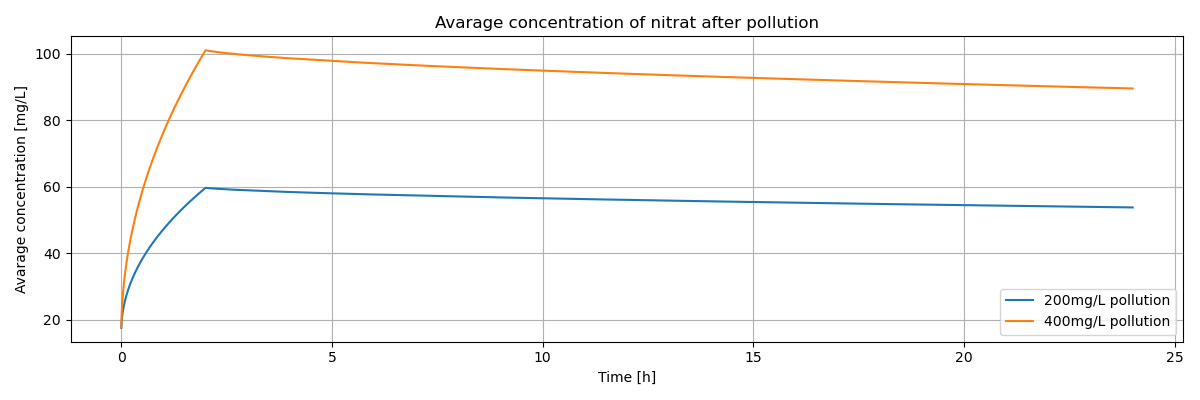
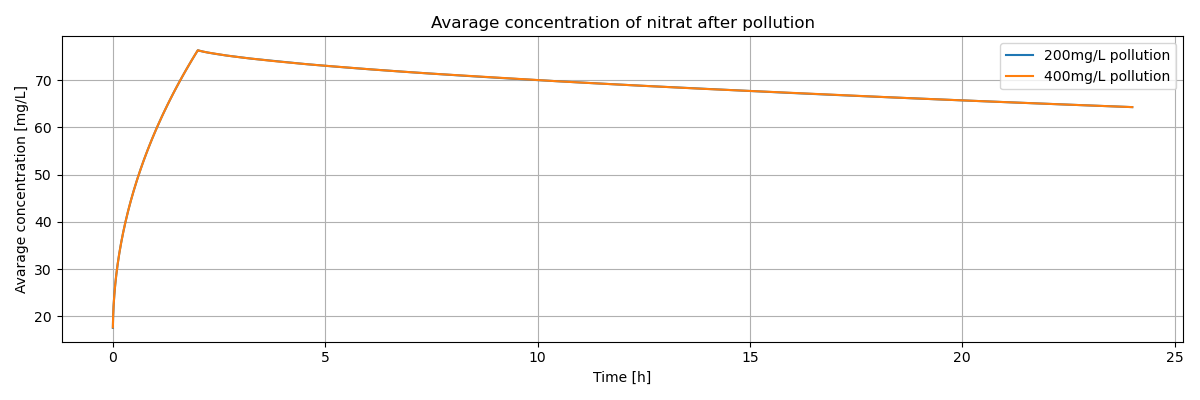
pipeline

diff --git a/src/simulation.py b/src/simulation.py
@@ -18,45 +18,45 @@ def pipeline(domain_width: int,
              domain_height: int,
              mean_noise: float,
              std_noise: float,
-             mean_pollution: list,
-             std_pollution: list,
-             number_of_cases: int,
+             mean_pollution: list[float],
+             std_pollution: list[float],
              number_of_charts: int,
              duration_sim: int,
              duration_poll: int,
              dx: int,
              dy: int,
              dt: int,
-             D: float,
-             v: float,
-             k:float):
+             D: list[float],
+             v: list[float],
+             k: list[float]):
+    
+    if len(mean_pollution) != len(std_pollution):
+        raise ValueError("mean_pollution and std_pollution must have the same length")
     
     bodies = []
-    averages = []
-    variances = []
+    averages = [[] for _ in range(len(mean_pollution))]
+    variances = [[] for _ in range(len(mean_pollution))]
+    labels = [f"{mean_pollution[i]} mg/L pollution" for i in range(len(mean_pollution))]
     end_of_pollution = False
 
 
-    for i in range(number_of_cases):
+    for i in range(len(mean_pollution)):
         body = setup(domain_width, domain_height, mean_noise, std_noise)
-        bodies.append(body)
         pollution_std_line(body, mean_pollution[i], std_pollution[i])
         bodies.append(body)
 
     for t in range(duration_sim):
-        for  i in range(number_of_cases):
-            flow(bodies[i], dx, dy, dt, D, v, k, mean_noise, std_noise, end_of_pollution)
+        for  i in range(len(mean_pollution)):
+            flow(bodies[i], dx, dy, dt, D[i], v[i], k[i], mean_noise, std_noise, end_of_pollution)
             averages[i].append(average(bodies[i]))
             variances[i].append(variance(bodies[i]))
 
 
             if(t%(duration_sim/number_of_charts) == 0):
-                visualise_concentration(bodies[i], 0, mean_pollution)
+                visualise_concentration(bodies[i], 0, np.max(mean_pollution))
 
         if t == duration_poll:
            end_of_pollution = True
     
-    plot_avg(np.arange(len(averages[0])) / 3600, averages, ["200mg/L pollution", "400mg/L pollution"],
-                  "Avarage concentration of nitrat after pollution", "h")
-    plot_var(np.arange(len(variances[0])) / 3600, variances, ["200mg/L pollution", "400mg/L pollution"],
-                  "Variance of nitrat concentration after pollution", "h")
+    plot_avg(np.arange(len(averages[0])) / 3600, averages, labels, "Average concentration of nitrate after pollution", "h")
+    plot_var(np.arange(len(variances[0])) / 3600, variances, labels, "Variance of nitrat concentration after pollution", "h")

diff --git a/main.py b/main.py
@@ -1,38 +1,4 @@
-import numpy as np
-import matplotlib.pyplot as plt
-from src.flow import setup, pollution, flow
-from src.visualise import visualise_concentration, plot_avg, plot_var
-from src.analyse import average, variance
+from src.simulation import pipeline
 
 if __name__ == '__main__':
-    body = setup(500, 100, 17.5, 2.5)
-    body_2 = setup(500, 100, 17.5, 2.5)
-    pollution(body, 200, 50)
-    pollution(body_2, 400, 50)
-    averages = []
-    averages_2 = []
-    variances = []
-    variances_2 = []
-    end_of_pollution = False
-    duration = 3600*12*2
-    time_span = range(duration)
-    number_of_maps = 6
-    for t in time_span:
-        flow(body, 1, 1, 1, 0.05, 0.00014, 6e-9, 17.5, 2.5, end_of_pollution)
-        flow(body_2, 1, 1, 1, 0.05, 0.00014, 6e-9, 17.5, 2.5, end_of_pollution)
-        if t == duration//12:
-           end_of_pollution = True
-        if(t%(duration/number_of_maps) == 0):
-            visualise_concentration(body, 0, 400)
-            print(average(body))
-            visualise_concentration(body_2, 0, 400)
-            print(average(body_2))
-        averages.append(average(body))
-        variances.append(variance(body))
-        averages_2.append(average(body_2))
-        variances_2.append(variance(body_2))
-    
-    plot_avg(np.arange(len(averages)) / 3600, [averages, averages_2], ["200mg/L pollution", "400mg/L pollution"],
-                  "Avarage concentration of nitrat after pollution", "h")
-    plot_var(np.arange(len(variances)) / 3600, [variances, variances_2], ["200mg/L pollution", "400mg/L pollution"],
-                  "Variance of nitrat concentration after pollution", "h")
+    pipeline(500, 100, 17.5, 2.5, [400, 400, 400], [50, 50, 50], 4, 3600*24, 7200*12, 1, 1, 1, [0.05, 0.1, 0.2], [0.00014, 0.00014, 0.00014], [6e-9, 6e-9, 6e-9])

diff --git a/src/stability.py b/src/stability.py
@@ -1,22 +1,15 @@
 import numpy as np
 
-def diffusion_stability_check(dx, dy, dt, D)-> bool:
-    stable = False
+def diffusion_stability_check(dx, dy, dt, D)-> None:
     if D > 0:
         if dt > 1 / (2 * D * (1/dx**2 + 1/dy**2)):
             raise ValueError("Unstable dt for diffusion")
     elif D < 0:
         raise ValueError("D out of the range of values")
-    else:
-        stable = True
-    return stable
+
         
 
-def advection_stability_check(dx, dy, dt, v)-> bool:
-    stable = False
+def advection_stability_check(dx, dt, v)-> None:
     if v != 0:
         if np.abs(v)*dt/dx >1:
             raise ValueError("Unstable dt for advection")
-    else:
-        stable = True
-    return stable

diff --git a/src/flow.py b/src/flow.py
@@ -26,7 +26,7 @@ def flow(body, dx, dy, dt, D, v, k, mean, std, pollution_stop=False):
     
     # stability checks
     diffusion_stability_check(dx, dy, dt, D)
-    advection_stability_check(dx, dy, dt, v)
+    advection_stability_check(dx, dt, v)
    
     dif_body = (body[:-2, 1:-1] - 2 * body[1:-1, 1:-1] + body[2:m, 1:-1])/(dy**2) + (body[1:-1, 0:-2] - 2 * body[1:-1, 1:-1] + body[1:-1, 2:n])/(dx**2)
     if v >= 0:
